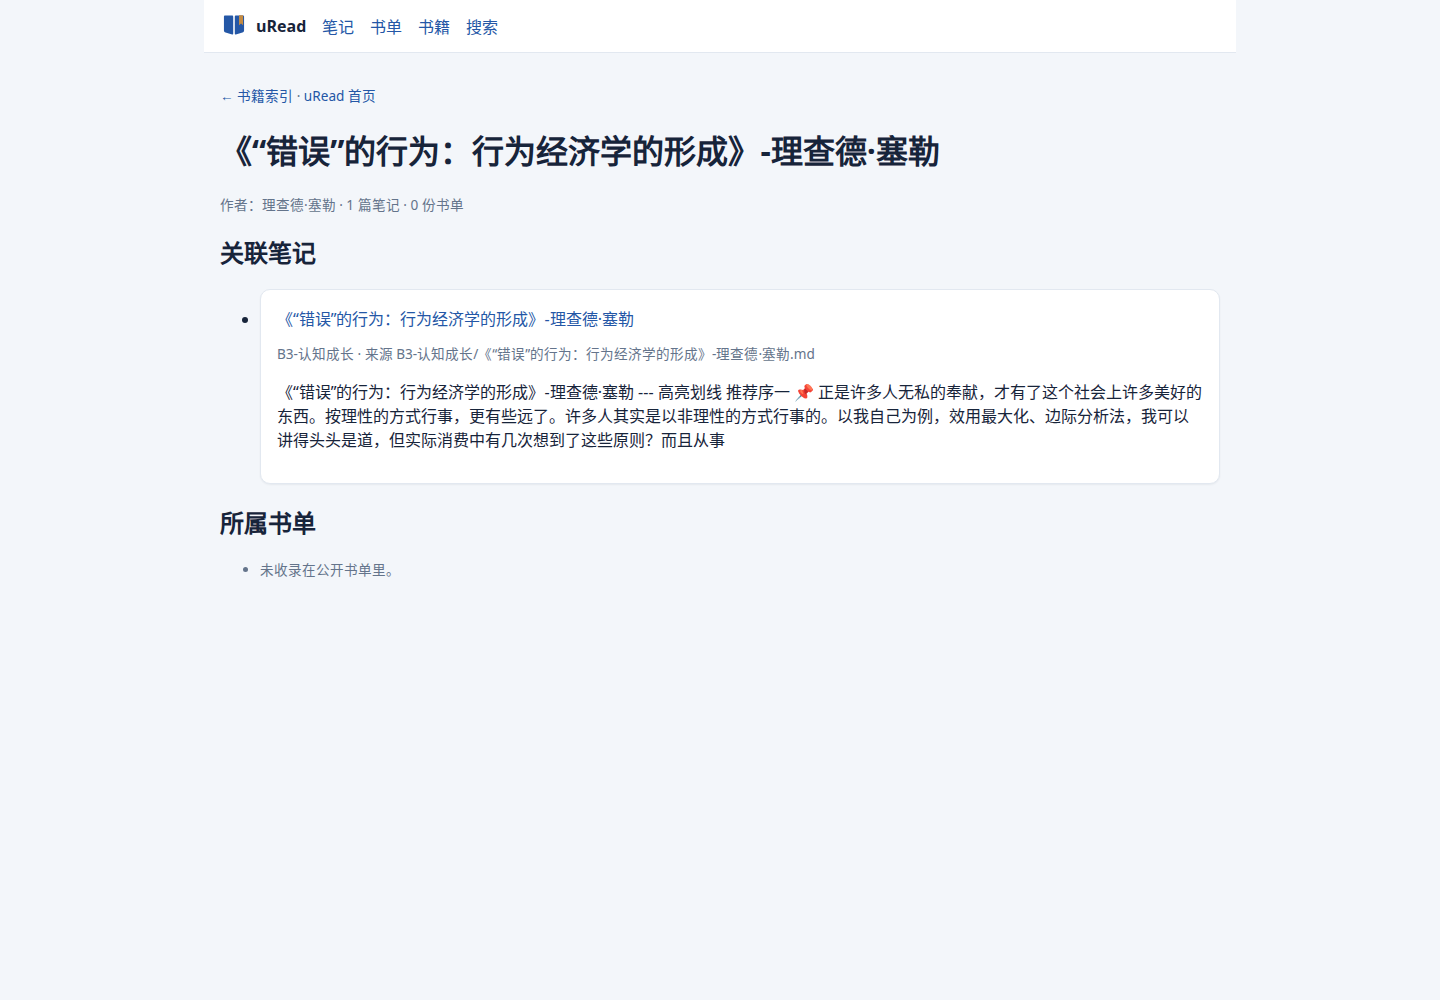
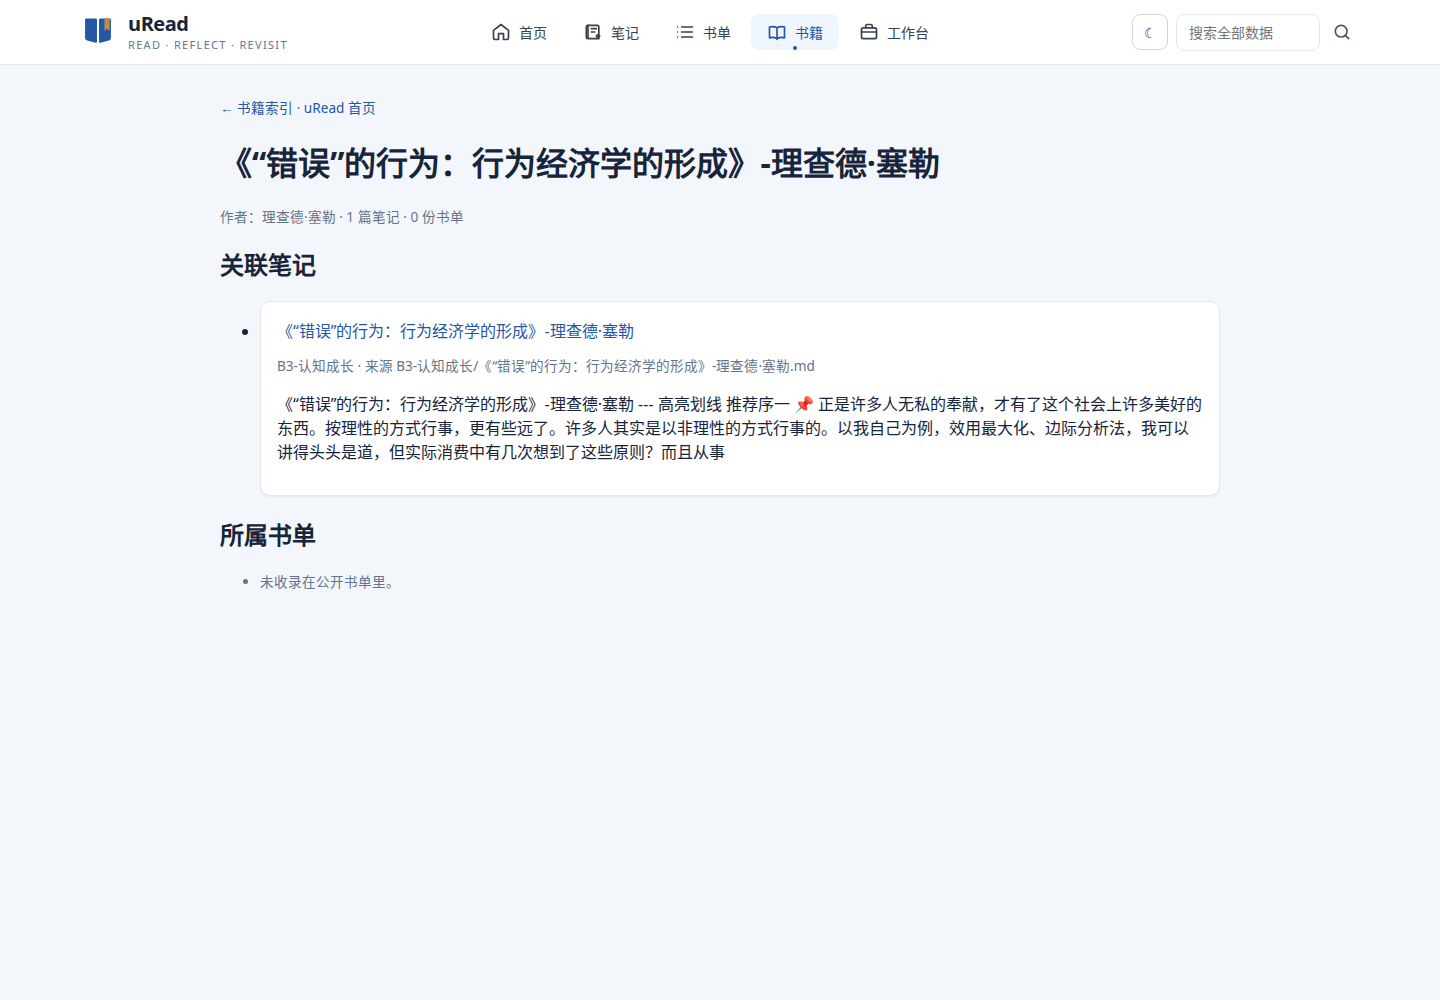
ux: 静态书页导航统一为与主站相同的品牌栏（含真实暗色模式）

diff --git a/book-library/site-nav.html b/book-library/site-nav.html
@@ -1,0 +1,89 @@
+<!-- 静态书页统一站点导航：与 React 顶部栏同一品牌、图标、五个栏目与激活态。
+     这一份 HTML 被 scripts/books-index.mjs 与 book-library/build.py 共同读取，改动只改这里。 -->
+<style>
+.uread-site-nav{position:sticky;top:0;z-index:50;background:light-dark(#fff,#1e293b);border-bottom:1px solid light-dark(#e5e7eb,#334155)}
+.uread-site-nav__inner{max-width:1280px;margin:0 auto;padding:0 1rem;min-height:64px;display:flex;align-items:center;justify-content:space-between;gap:1rem}
+.uread-brand{display:flex;align-items:center;gap:.75rem;color:light-dark(#17243A,#f1f5f9);text-decoration:none;flex-shrink:0}
+.uread-brand:hover{text-decoration:none}
+.uread-brand img{width:36px;height:36px;display:block}
+.uread-brand strong{display:block;font-size:20px;font-weight:600;letter-spacing:-.025em;line-height:1.1}
+.uread-brand small{display:block;font-size:11px;letter-spacing:.12em;color:light-dark(#64748B,#cbd5e1);margin-top:2px}
+.uread-nav-links{display:flex;align-items:center;gap:.25rem;overflow-x:auto;scrollbar-width:none}
+.uread-nav-links::-webkit-scrollbar{display:none}
+.uread-nav-link{position:relative;display:flex;align-items:center;gap:.5rem;flex-shrink:0;padding:.5rem 1rem;border-radius:.5rem;font-size:14px;font-weight:500;color:light-dark(#374151,#e2e8f0);text-decoration:none;transition:background .15s,color .15s}
+.uread-nav-link:hover{color:light-dark(#2457A6,#93c5fd);background:light-dark(#f9fafb,#0f172a);text-decoration:none}
+.uread-nav-link svg{width:20px;height:20px;flex-shrink:0}
+.uread-nav-link[aria-current="page"]{color:light-dark(#2457A6,#93c5fd);background:light-dark(#eff6ff,#172554)}
+.uread-nav-link[aria-current="page"]::after{content:"";position:absolute;left:50%;bottom:0;width:4px;height:4px;border-radius:50%;background:light-dark(#2457A6,#93c5fd);transform:translateX(-50%)}
+.uread-nav-actions{display:flex;align-items:center;gap:.5rem;flex-shrink:0}
+.uread-theme-toggle{min-height:36px;min-width:36px;padding:.35rem;border:1px solid light-dark(#d1d5db,#475569);border-radius:.5rem;background:light-dark(#fff,#1e293b);color:light-dark(#374151,#e2e8f0);font:inherit;font-size:14px;cursor:pointer}
+.uread-theme-toggle:hover{background:light-dark(#f3f4f6,#334155)}
+.uread-nav-search{display:flex;align-items:center;gap:.25rem}
+.uread-nav-search input{max-width:9rem;padding:.5rem .75rem;border:1px solid light-dark(#e5e7eb,#334155);border-radius:.5rem;font:inherit;font-size:14px;background:light-dark(#fff,#0f172a);color:light-dark(#17243A,#f1f5f9)}
+.uread-nav-search button{display:flex;align-items:center;justify-content:center;min-height:36px;min-width:36px;border:0;border-radius:.5rem;background:transparent;color:light-dark(#4b5563,#cbd5e1);cursor:pointer}
+.uread-nav-search button:hover{background:light-dark(#f3f4f6,#334155)}
+.uread-nav-search button svg{width:20px;height:20px}
+.uread-sr-only{position:absolute;width:1px;height:1px;overflow:hidden;clip:rect(0 0 0 0);white-space:nowrap}
+@media(max-width:900px){.uread-nav-search input{max-width:7rem}.uread-nav-link{padding:.5rem .65rem}}
+@media(max-width:640px){.uread-brand small{display:none}.uread-brand img{width:30px;height:30px}.uread-brand strong{font-size:17px}.uread-site-nav__inner{min-height:56px;padding:0 .75rem}.uread-nav-search{display:none}}
+</style>
+<nav aria-label="主导航" class="uread-site-nav">
+  <div class="uread-site-nav__inner">
+    <a class="uread-brand" href="/uRead/" aria-label="uRead 首页">
+      <img src="/uRead/brand/logo-symbol.svg" alt="">
+      <span><strong>uRead</strong><small>READ · REFLECT · REVISIT</small></span>
+    </a>
+    <div class="uread-nav-links">
+      <a class="uread-nav-link" href="/uRead/"><svg xmlns="http://www.w3.org/2000/svg" viewBox="0 0 24 24" fill="none" stroke="currentColor" stroke-width="2" stroke-linecap="round" stroke-linejoin="round" aria-hidden="true"><path d="m3 10 9-7 9 7v9a2 2 0 0 1-2 2h-4v-7H9v7H5a2 2 0 0 1-2-2z"/></svg><span>首页</span></a>
+      <a class="uread-nav-link" href="/uRead/read/"><svg xmlns="http://www.w3.org/2000/svg" viewBox="0 0 24 24" fill="none" stroke="currentColor" stroke-width="2" stroke-linecap="round" stroke-linejoin="round" aria-hidden="true"><path d="M6 4h11a2 2 0 0 1 2 2v14H8a2 2 0 0 1-2-2z"/><path d="M6 4a2 2 0 0 0-2 2v12a2 2 0 0 0 2 2M10 8h6M10 12h4"/><path d="m16 17 2-2 2 2-2 2z"/></svg><span>笔记</span></a>
+      <a class="uread-nav-link" href="/uRead/booklists/"><svg xmlns="http://www.w3.org/2000/svg" viewBox="0 0 24 24" fill="none" stroke="currentColor" stroke-width="2" stroke-linecap="round" stroke-linejoin="round" aria-hidden="true"><path d="M8 6h13M8 12h13M8 18h13"/><path d="M3 6h.01M3 12h.01M3 18h.01"/></svg><span>书单</span></a>
+      <a class="uread-nav-link" href="/uRead/books/"><svg xmlns="http://www.w3.org/2000/svg" viewBox="0 0 24 24" fill="none" stroke="currentColor" stroke-width="2" stroke-linecap="round" stroke-linejoin="round" aria-hidden="true"><path d="M12 7v14M12 7C9.5 5.5 6.5 5 3 6v13c3.5-1 6.5-.5 9 1 2.5-1.5 5.5-2 9-1V6c-3.5-1-6.5-.5-9 1Z"/></svg><span>书籍</span></a>
+      <a class="uread-nav-link" href="/uRead/workspace/"><svg xmlns="http://www.w3.org/2000/svg" viewBox="0 0 24 24" fill="none" stroke="currentColor" stroke-width="2" stroke-linecap="round" stroke-linejoin="round" aria-hidden="true"><rect x="3" y="7" width="18" height="13" rx="2"/><path d="M8 7V5a2 2 0 0 1 2-2h4a2 2 0 0 1 2 2v2M3 12h18"/></svg><span>工作台</span></a>
+    </div>
+    <div class="uread-nav-actions">
+      <button class="uread-theme-toggle" type="button" aria-label="切换到夜间模式" title="切换到夜间模式">☾</button>
+      <form class="uread-nav-search" role="search" action="/uRead/find/" method="get">
+        <label for="uread-nav-q" class="uread-sr-only">搜索全部数据</label>
+        <input id="uread-nav-q" type="search" name="q" placeholder="搜索全部数据" aria-label="搜索全部数据">
+        <button type="submit" aria-label="提交搜索"><svg xmlns="http://www.w3.org/2000/svg" viewBox="0 0 24 24" fill="none" stroke="currentColor" stroke-width="2" stroke-linecap="round" stroke-linejoin="round" aria-hidden="true"><circle cx="11" cy="11" r="7"/><path d="m20 20-4-4"/></svg></button>
+      </form>
+    </div>
+  </div>
+</nav>
+<script>
+(function () {
+  var KEY = 'color-scheme';
+  var meta = document.querySelector('meta[name="color-scheme"]');
+  var button = document.querySelector('.uread-theme-toggle');
+  var system = function () { return matchMedia('(prefers-color-scheme: dark)').matches ? 'dark' : 'light'; };
+  var stored = null;
+  try { stored = localStorage.getItem(KEY); } catch (e) { /* 存储被禁用时仍可切换 */ }
+  var preference = stored === 'light' || stored === 'dark' ? stored : 'light dark';
+  var resolve = function (value) { return value === 'light dark' ? system() : value; };
+  var apply = function (value) {
+    preference = value;
+    if (meta) meta.setAttribute('content', value);
+    try {
+      if (value === 'light dark') localStorage.removeItem(KEY);
+      else localStorage.setItem(KEY, value);
+    } catch (e) { /* 同上 */ }
+    var dark = resolve(value) === 'dark';
+    var label = dark ? '切换到日间模式' : '切换到夜间模式';
+    button.textContent = dark ? '☀' : '☾';
+    button.setAttribute('aria-label', label);
+    button.title = label;
+  };
+  button.addEventListener('click', function () {
+    var target = resolve(preference) === 'dark' ? 'light' : 'dark';
+    apply(target === system() ? 'light dark' : target);
+  });
+  apply(preference);
+
+  var path = location.pathname;
+  document.querySelectorAll('.uread-nav-link').forEach(function (link) {
+    var target = new URL(link.href, location.origin).pathname;
+    var active = target === '/uRead/' ? (path === '/uRead/' || path === '/uRead') : path.indexOf(target) === 0;
+    if (active) link.setAttribute('aria-current', 'page');
+  });
+})();
+</script>

diff --git a/book-library/reader.html b/book-library/reader.html
@@ -5,26 +5,24 @@
 <meta name="viewport" content="width=device-width, initial-scale=1"><meta name="color-scheme" content="light dark">
 <title>在线阅读 · uRead 书库</title>
 <style>
-  body { font-family: system-ui, -apple-system, "PingFang SC", sans-serif; margin: 0; color: #1f2937; }
-  header { display: flex; flex-wrap: wrap; gap: .5rem; align-items: center; padding: .6rem .8rem; border-bottom: 1px solid #e5e7eb; position: sticky; top: 0; background: #fff; z-index: 2; }
-  header a { color: #1d4ed8; text-decoration: none; }
+  body { font-family: system-ui, -apple-system, "PingFang SC", sans-serif; margin: 0; color: light-dark(#1f2937,#f1f5f9); background: light-dark(#fff,#0f172a); }
+  .reader-bar { display: flex; flex-wrap: wrap; gap: .5rem; align-items: center; padding: .6rem .8rem; border-bottom: 1px solid light-dark(#e5e7eb,#334155); position: sticky; top: 64px; background: light-dark(#fff,#1e293b); z-index: 2; }
+  .reader-bar a { color: light-dark(#1d4ed8,#93c5fd); text-decoration: none; }
   h1 { font-size: 1.05rem; margin: 0 1rem 0 0; }
-  button, select { font: inherit; min-height: 44px; min-width: 44px; padding: .4rem .7rem; border: 1px solid #d1d5db; border-radius: .5rem; background: #fff; cursor: pointer; }
+  button, select { font: inherit; min-height: 44px; min-width: 44px; padding: .4rem .7rem; border: 1px solid light-dark(#d1d5db,#475569); border-radius: .5rem; background: light-dark(#fff,#1e293b); color: inherit; cursor: pointer; }
   #toc { max-width: min(42vw, 14rem); }
-  button:hover, select:hover { background: #f3f4f6; }
-  #meta { color: #6b7280; font-size: .85rem; }
-  #stage { height: calc(100dvh - 132px); }
-  @media (max-width: 640px) { #stage { height: calc(100dvh - 176px); } h1 { width: 100%; } #progress { margin-left: auto; } }
+  button:hover, select:hover { background: light-dark(#f3f4f6,#334155); }
+  #meta { color: light-dark(#6b7280,#cbd5e1); font-size: .85rem; }
+  #stage { height: calc(100dvh - 120px); }
+  @media (max-width: 640px) { .reader-bar { top: 56px; } #stage { height: calc(100dvh - 168px); } h1 { width: 100%; } #progress { margin-left: auto; } }
   foliate-view { display: block; width: 100%; height: 100%; }
   iframe { width: 100%; height: 100%; border: 0; }
   #notice { padding: 1rem; color: #b91c1c; }
 </style>
 </head>
 <body>
-<header aria-label="站点导航">
-  <a href="/uRead/" style="display:flex;align-items:center;gap:.4rem;font-weight:700"><img src="/uRead/brand/logo-symbol.svg" alt="" width="24" height="24">uRead</a>
-  <a href="/uRead/read/">笔记</a><a href="/uRead/booklists/">书单</a><a href="/uRead/books/">书籍</a><a href="/uRead/find/">搜索</a>
-  <span aria-hidden="true">|</span>
+<!--SITE_NAV-->
+<header class="reader-bar" aria-label="阅读工具">
   <a href="index.html">← 书库</a>
   <h1 id="title">正在打开…</h1>
   <span id="meta"></span>

diff --git a/book-library/build.py b/book-library/build.py
@@ -197,20 +197,16 @@ def write_outputs(records: list[dict]) -> None:
         for r in records
     ) or "<li>书库还没有书。</li>"
     (DIST / "library.html").write_text(INDEX_HTML.format(rows=rows, count=len(records), SITE_NAV=SITE_NAV), encoding="utf-8")
-    shutil.copy2(ROOT / "reader.html", DIST / "reader.html")
+    reader = (ROOT / "reader.html").read_text(encoding="utf-8")
+    assert "<!--SITE_NAV-->" in reader, "阅读器缺少站点导航占位符"
+    (DIST / "reader.html").write_text(reader.replace("<!--SITE_NAV-->", SITE_NAV), encoding="utf-8")
     assert 'id="book-search"' in (DIST / "library.html").read_text(encoding="utf-8"), "书库搜索框没进产物"
     print(f"书库已生成：{len(records)} 本，版本 {version}，产物 {DIST}")
 
 
 
-SITE_NAV = """
-<nav aria-label="站点导航" style="border-bottom:1px solid #E2E8F0;background:#fff;margin:-2rem -1rem 2rem;padding:.75rem 1rem;display:flex;flex-wrap:wrap;gap:1rem;align-items:center">
-  <a href="/uRead/" style="display:flex;align-items:center;gap:.5rem;font-weight:700;color:#17243A">
-    <img src="/uRead/brand/logo-symbol.svg" alt="" width="28" height="28">uRead
-  </a>
-  <a href="/uRead/read/">笔记</a><a href="/uRead/booklists/">书单</a><a href="/uRead/books/">书籍</a><a href="/uRead/find/">搜索</a>
-</nav>
-"""
+# 与 React 顶部栏共用的站点导航，单一来源，供书库目录与阅读器一起注入。
+SITE_NAV = (ROOT / "site-nav.html").read_text(encoding="utf-8")
 
 INDEX_HTML = """<!doctype html>
 <html lang="zh-CN">
@@ -219,20 +215,22 @@ INDEX_HTML = """<!doctype html>
 <meta name="viewport" content="width=device-width, initial-scale=1"><meta name="color-scheme" content="light dark">
 <title>电子书库 · uRead</title>
 <style>
-body{{font-family:system-ui,-apple-system,"PingFang SC",sans-serif;max-width:860px;margin:2rem auto;padding:0 1rem;color:#1f2937}}
-h1{{font-size:1.8rem}} ul{{list-style:none;padding:0}} li{{border:1px solid #e5e7eb;border-radius:12px;padding:1rem;margin:.75rem 0}}
-a{{color:#1d4ed8;text-decoration:none}} a:hover{{text-decoration:underline}}
-li span{{display:block;color:#6b7280;font-size:.9rem;margin:.35rem 0}}
+body{{font-family:system-ui,-apple-system,"PingFang SC",sans-serif;margin:0;padding:0;color:light-dark(#1f2937,#f1f5f9);background:light-dark(#fff,#0f172a)}}
+.uread-page{{max-width:860px;margin:2rem auto;padding:0 1rem}}
+h1{{font-size:1.8rem}} ul{{list-style:none;padding:0}} li{{border:1px solid light-dark(#e5e7eb,#334155);border-radius:12px;padding:1rem;margin:.75rem 0}}
+a{{color:light-dark(#1d4ed8,#93c5fd);text-decoration:none}} a:hover{{text-decoration:underline}}
+li span{{display:block;color:light-dark(#6b7280,#cbd5e1);font-size:.9rem;margin:.35rem 0}}
 .cover{{float:left;width:72px;height:100px;object-fit:cover;margin:0 1rem 1rem 0;border-radius:6px}}
 li:after{{content:"";display:block;clear:both}}
-.download{{font-size:.85rem}} footer{{margin-top:2rem;color:#6b7280;font-size:.8rem}}
-input[type=search]{{width:100%;max-width:24rem;padding:.55rem .8rem;border:1px solid #d1d5db;border-radius:.5rem;font:inherit;margin:.5rem 0 1rem}}
+.download{{font-size:.85rem}} footer{{margin-top:2rem;color:light-dark(#6b7280,#cbd5e1);font-size:.8rem}}
+input[type=search]{{width:100%;max-width:24rem;padding:.55rem .8rem;border:1px solid light-dark(#d1d5db,#475569);border-radius:.5rem;font:inherit;margin:.5rem 0 1rem;background:light-dark(#fff,#1e293b);color:inherit}}
 .sr-only{{position:absolute;width:1px;height:1px;overflow:hidden;clip:rect(0 0 0 0)}}
 @media(max-width:640px){{h1{{font-size:1.5rem}} li{{padding:.8rem}}}}
 </style>
 </head>
 <body>
 {SITE_NAV}
+<main class="uread-page">
 <h1>可在线阅读的电子书</h1>
 <p>共 {count} 本。点击书名在线阅读；EPUB 在浏览器里排版，PDF 用浏览器自带阅读器。</p>
 <label for="book-search" class="sr-only">搜索书名或作者</label>
@@ -250,6 +248,7 @@ input[type=search]{{width:100%;max-width:24rem;padding:.55rem .8rem;border:1px s
   }});
 </script>
 <footer>只收录放书人声明有权公开分发的书。GitHub 对单文件 >50 MiB 会告警、>100 MiB 直接拦截。</footer>
+</main>
 </body>
 </html>
 """

diff --git a/CHANGELOG.md b/CHANGELOG.md
@@ -11,6 +11,7 @@
 - 移动端夜间模式按钮只保留一个（桌面按钮限定 md 以上）。
 - 发布配置在构建时复制到 dist/publishing，避免 SPA fallback 把 JSON 变成 HTML。
 - 顶部导航简化为单行五个短标签（首页/笔记/书单/书籍/工作台），移除副标题；补 aria-label 与 aria-current。
+- 静态书页（书籍索引/详情/电子书库/阅读器）导航统一为与主站相同的品牌栏：同款 Logo、五个图标栏目、激活态、搜索与主题开关（真实暗色模式，非装饰按钮）。
 
 ## [0.32.0] - 2026-11-20
 
